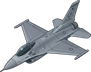
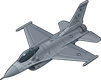
An afterburner for the F-16, none for the Harrier, and the F-16 grows
The Harrier has no nozzle deliberately, and the comment says why so nobody adds
one later: the Pegasus is a NON-AFTERBURNING turbofan. It vectors thrust down
through four nozzles instead, which is a different effect and not this one. It
was on my list of afterburner candidates purely because it is a fast jet, which
is not the same thing.

The F-16 gets one - the only single-engine aircraft in the game with a burner,
so one plume rather than the pairs everything else carries. Read off
f16_default.png at (725, 225) and scaled by 101/898, and it is a seed: every
nozzle so far moved once rigged against a live preview, the Concorde's by 18
degrees.

Sprite height 72 -> 80. At 72 it read small even against the F-15's 76, which
its 9.96m span justifies on paper and not on a pad.

diff --git a/tools/newfleet_derive.py b/tools/newfleet_derive.py
@@ -108,7 +108,7 @@ MODELS = {
                          "body_forest": ("hughes_h4_liveries.png", 2)}),
     # Two fighters. 9.96m and 9.25m span, so both sit under the F-15's 76 -
     # the smallest things in the fleet after the Paper Plane.
-    "f16":        (72, {"body": "f16_default.png"}),
+    "f16":        (80, {"body": "f16_default.png"}),
     "harrier":    (76, {"body": "av8b_harrier_default.png"}),
     # THE FIRST TWO PAST LEVEL 50. Both are Snow's, and both are polar aircraft
     # rather than more airliners - see ROADMAP item 10 for why the tail entries
